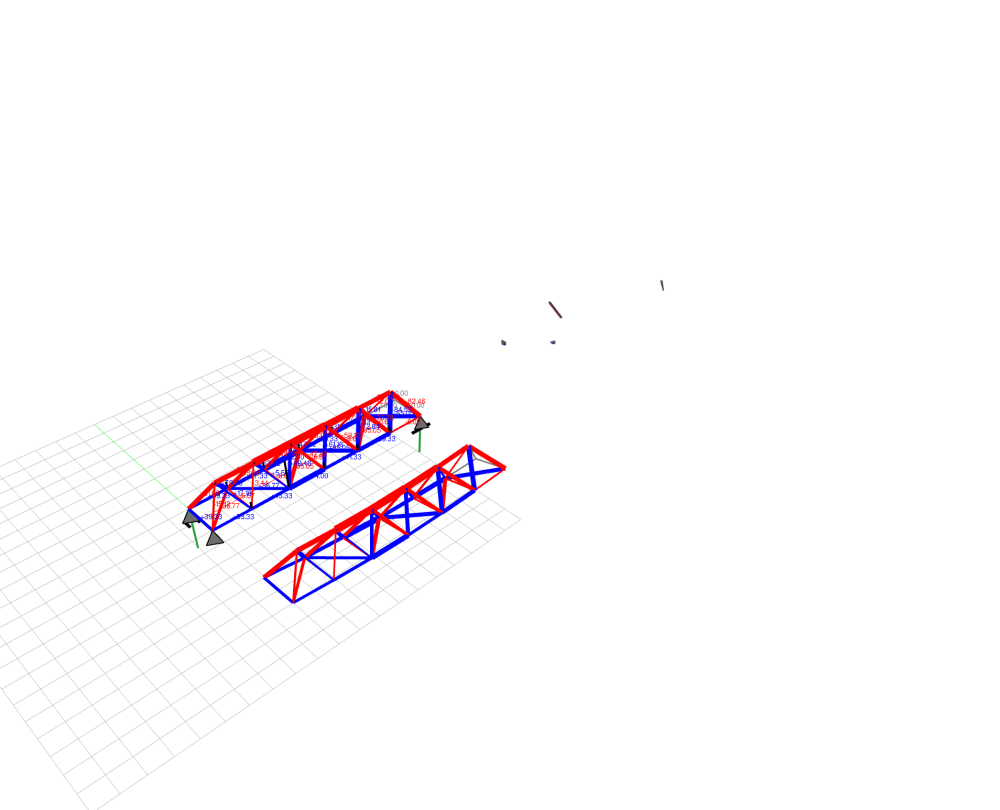
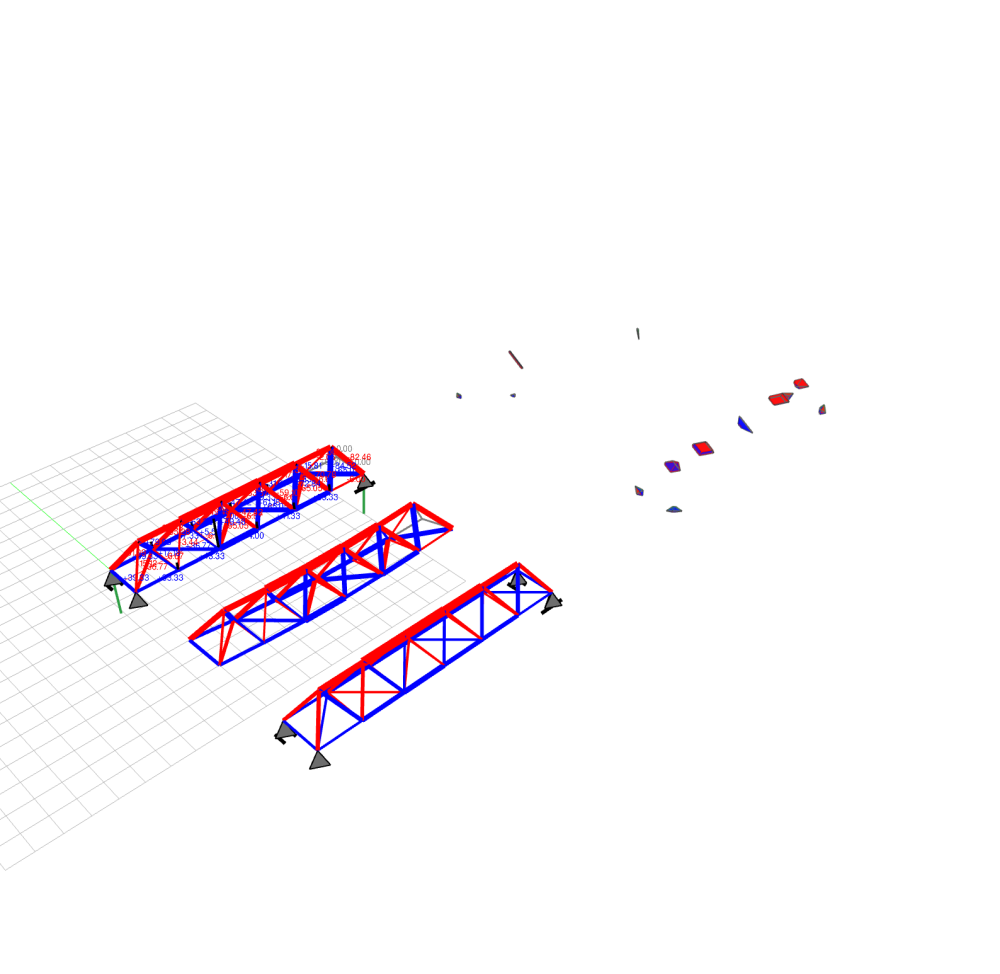
Pick the state of the indeterminate Warren truss in the input or with a slider

diff --git a/examples/model/05_warren_truss_fem.py b/examples/model/05_warren_truss_fem.py
@@ -1,4 +1,4 @@
-"""A 3D Warren truss solved twice: with 3GS (`GSModel`, statics) and with a linear finite element model.
+"""A 3D Warren truss solved with 3GS (`GSModel`, statics) and with a linear finite element model.
 
 The truss has a triangular section: two bottom chords, one top chord, Warren diagonals from each
 top node to the four bottom nodes of its bay, cross ties and lateral bracing in the bottom plane.
@@ -10,12 +10,18 @@ A. On three bearings (pinned, roller, slider) the truss is statically determinat
    so the finite element model must give the same forces for any member stiffness. It also gives
    what statics cannot: the displacements. 3GS also gives what the finite element model does not:
    the force polyhedron of every node, here kept only where it reaches the forces (`check`).
-B. With a fourth bearing the truss is statically indeterminate (degree 1). 3GS says so and gives
-   no forces; the finite element model does, and they change with the member stiffness: here with
-   a ten times softer bracing in the first half of the span. (Scaling a whole member group, or any
-   change under loads symmetric about the middle of the span, would change nothing here: the one
-   self-stress state of this truss twists it, with the bearing reactions alternating around the
-   corners.)
+B. With a fourth bearing the truss is statically indeterminate, with one self-stress state: every
+   state in equilibrium with the loads is one of them plus any multiple of it, a line of states.
+   - The member stiffness picks one point on that line, the elastic state. 3GS gives it from
+     statics and stiffness (the least complementary energy), and it is the finite element state.
+     Here the bracing of the first half of the span is `SOFT_BRACING` times softer.
+   - Any other point is a state in equilibrium too: pick it in the input with `FOURTH_BEARING`, the
+     vertical reaction at the fourth bearing, or move the slider in the viewer. The script prints
+     the range in which no bearing lifts off, and builds the force polyhedra of the chosen state.
+     At 0 kN the fourth bearing carries nothing, and the state is that of A.
+   (Scaling a whole member group, or any change under loads symmetric about the middle of the span,
+   would not move the elastic state here: the self-stress state twists the truss, with the bearing
+   reactions alternating around the corners.)
 
 The finite element model is the direct stiffness method for pin-jointed bars: each member adds
 EA/L * d d^T to the stiffness matrix (d its unit direction), the free degrees of freedom are solved
@@ -26,6 +32,7 @@ Run with the compas-3gs env:  python examples/model/05_warren_truss_fem.py
 """
 
 import numpy as np
+from compas_viewer.components import Slider
 
 from compas.colors import Color
 from compas.geometry import Line
@@ -40,6 +47,9 @@ DECK = [0.0, 0.0, -10.0]  # kN per bottom node
 WIND = [0.0, 2.0, 0.0]  # kN per top node
 VEHICLE = [0.0, 0.0, -30.0]  # kN on one side of the deck, off the middle of the span
 EA = 210e6 * 0.002  # kN: steel, 20 cm2
+
+SOFT_BRACING = 10.0  # B: the bracing of the first half of the span is this many times softer (sets the elastic state)
+FOURTH_BEARING = None  # B: the vertical reaction you pick at the fourth bearing, in kN; None for the elastic state
 
 # ------------------------------------------------------------------------------
 # 1. geometry
@@ -58,7 +68,7 @@ groups = {
 }
 
 # ------------------------------------------------------------------------------
-# 2. 3GS: supports, loads, equilibrium, force polyhedra
+# 2. A. 3GS on three bearings: supports, loads, equilibrium, force polyhedra
 # ------------------------------------------------------------------------------
 
 model = GSModel.from_lines([line for lines in groups.values() for line in lines])
@@ -87,7 +97,7 @@ for node, check in model.check().items():
 print("force polyhedra: {} nodes, {} without".format(len(model.cells), len(model.skipped)))
 
 # ------------------------------------------------------------------------------
-# 3. linear finite elements, for the same supports and loads
+# 3. linear finite elements: A with uniform stiffness, B with the softer bracing
 # ------------------------------------------------------------------------------
 
 nodes = list(form.nodes())
@@ -96,7 +106,7 @@ xyz = np.array([form.node_coordinates(node) for node in nodes])
 soft = [(model.node_at(a), model.node_at(b)) for a, b in groups["bracing"][: BAYS // 2]]  # the bracing of the first half of the span
 stiffness = {
     "uniform": {edge: EA for edge in form.edges()},
-    "soft bracing": {edge: EA / 10 if edge in soft or edge[::-1] in soft else EA for edge in form.edges()},
+    "soft bracing": {edge: EA / SOFT_BRACING if edge in soft or edge[::-1] in soft else EA for edge in form.edges()},
 }
 
 K = {}
@@ -129,7 +139,7 @@ for u, v in form.edges():
     fem[(u, v)] = EA / length * float(np.dot(d / length, displacements[3 * j : 3 * j + 3] - displacements[3 * i : 3 * i + 3]))
 
 # ------------------------------------------------------------------------------
-# 4. comparison
+# 4. A. comparison
 # ------------------------------------------------------------------------------
 
 print("\nmember forces (kN, + tension / - compression)   largest |N|    3GS - FEM")
@@ -153,38 +163,62 @@ for node, reason in model.skipped.items():
     print("no force polyhedron at node {}: {}".format(node, reason))
 
 # ------------------------------------------------------------------------------
-# 5. a fourth bearing: statically indeterminate
+# 5. B. a fourth bearing: a line of states in equilibrium, the elastic one, and the one you pick
 # ------------------------------------------------------------------------------
 
-indeterminate = GSModel.from_lines([line for lines in groups.values() for line in lines])
-for node in form.nodes():
-    indeterminate.form.node_attributes(node, ["support", "px", "py", "pz"], form.node_attributes(node, ["support", "px", "py", "pz"]))
-indeterminate.set_support(node=indeterminate.node_at(right[-1]), dofs="roller")
-try:
-    indeterminate.solve()
-except ValueError as error:
-    print("\nB. four bearings, 3GS: {}".format(error))
+indeterminate = GSModel(form.copy())  # the same members and loads
+corner = model.node_at(right[-1])
+indeterminate.set_support(node=corner, dofs="roller")
+bearings = list(indeterminate.form.supports())
 
-fixed = [3 * index[node] + "xyz".index(axis) for node in indeterminate.form.supports() for axis in indeterminate.form.node_attribute(node, "support")]
+elastic = indeterminate.solve(stiffness=stiffness["soft bracing"])
+elastic_forces = indeterminate.forces()
+elastic_reactions = indeterminate.reactions()
+print("\nB. four bearings: determinate {}, {} self-stress state".format(elastic.determinate, len(indeterminate.self_stresses)))
+state_forces, state_reactions = indeterminate.self_stresses[0]
+print("   self-stress state, vertical reactions: {}".format(", ".join("node {} {:+.3f}".format(node, state_reactions[node][2]) for node in bearings)))
+
+fixed = [3 * index[node] + "xyz".index(axis) for node in bearings for axis in indeterminate.form.node_attribute(node, "support")]
 free = [dof for dof in range(3 * len(nodes)) if dof not in fixed]
-forces = {}
-for case, ea in stiffness.items():
-    u_case = np.zeros(3 * len(nodes))
-    u_case[free] = np.linalg.solve(K[case][np.ix_(free, free)], p[free])
-    forces[case] = {}
-    for u, v in form.edges():
-        i, j = index[u], index[v]
-        d = xyz[j] - xyz[i]
-        length = np.linalg.norm(d)
-        forces[case][(u, v)] = ea[(u, v)] / length * float(np.dot(d / length, u_case[3 * j : 3 * j + 3] - u_case[3 * i : 3 * i + 3]))
-    vertical = {node: (K[case] @ u_case - p)[3 * index[node] + 2] for node in indeterminate.form.supports()}
-    print("   FEM, {:12s}: vertical reactions {} kN".format(case, ", ".join("node {} {:+.3f}".format(node, r) for node, r in vertical.items())))
-change = max(form.edges(), key=lambda edge: abs(forces["uniform"][edge] - forces["soft bracing"][edge]))
-before, after = forces["uniform"][change], forces["soft bracing"][change]
-print("   with the bracing of the first half ten times softer, member {} goes from {:+.3f} to {:+.3f} kN".format(change, before, after))
+u_b = np.zeros(3 * len(nodes))
+u_b[free] = np.linalg.solve(K["soft bracing"][np.ix_(free, free)], p[free])
+difference = 0.0
+for u, v in form.edges():
+    i, j = index[u], index[v]
+    d = xyz[j] - xyz[i]
+    length = np.linalg.norm(d)
+    force = stiffness["soft bracing"][(u, v)] / length * float(np.dot(d / length, u_b[3 * j : 3 * j + 3] - u_b[3 * i : 3 * i + 3]))
+    difference = max(difference, abs(force - elastic_forces[(u, v)]))
+print("   elastic state, bracing of the first half {:.0f} times softer: 3GS - FEM {:.1e} kN".format(SOFT_BRACING, difference))
+print("   elastic state, vertical reactions: {}".format(", ".join("node {} {:+.3f}".format(node, elastic_reactions[node][2]) for node in bearings)))
+
+# the states along the line: reaction(t) = elastic + t * self-stress; no bearing lifts off while every vertical reaction is >= 0
+low, high = -np.inf, np.inf
+for node in bearings:
+    if state_reactions[node][2] > 0:
+        low = max(low, -elastic_reactions[node][2] / state_reactions[node][2])
+    elif state_reactions[node][2] < 0:
+        high = min(high, -elastic_reactions[node][2] / state_reactions[node][2])
+ends = sorted(elastic_reactions[corner][2] + t * state_reactions[corner][2] for t in (low, high))
+print("   no bearing lifts off for a fourth bearing reaction from {:.2f} to {:.2f} kN".format(*ends))
+
+if FOURTH_BEARING is not None:
+    indeterminate.solve(stiffness=stiffness["soft bracing"], reactions={(corner, "z"): FOURTH_BEARING})
+chosen = indeterminate.forces()
+change = max(form.edges(), key=lambda edge: abs(chosen[edge] - elastic_forces[edge]))
+print("   chosen state, vertical reactions: {}".format(", ".join("node {} {:+.3f}".format(node, round(indeterminate.form.node_reaction(node)[2], 9) + 0.0) for node in bearings)))
+print("   largest change from the elastic state: member {} {:+.3f} -> {:+.3f} kN".format(change, elastic_forces[change], chosen[change]))
+
+indeterminate.derive_force_diagram(kmax=500)
+for node, check in indeterminate.check().items():
+    if check["area_error"] > 0.01 or check["angle"] > 1.0:
+        indeterminate.skipped[node] = "the cell does not reach the forces"
+        del indeterminate.cells[node]
+        del indeterminate.cell_faces[node]
+print("   force polyhedra of the chosen state: {} nodes, {} without".format(len(indeterminate.cells), len(indeterminate.skipped)))
 
 # ------------------------------------------------------------------------------
-# 6. viewer: 3GS forces and force polyhedra; beside them, the FEM deflected shape and forces
+# 6. viewer: A with 3GS and FEM; B in the chosen state, with a slider for the fourth bearing
 # ------------------------------------------------------------------------------
 
 viewer = GSViewer()
@@ -193,11 +227,37 @@ viewer.add_model(model)
 scale = 0.05 * BAYS * BAY / np.abs(displacements).max()  # the largest displacement drawn as 5% of the span
 shift = np.array([0.0, -3 * WIDTH, 0.0])
 peak = max(abs(force) for force in fem.values())
-deflected = viewer.scene.add_group(name="FEM: deflected shape (x{:.0f}) and member forces".format(scale))
+deflected = viewer.scene.add_group(name="A, FEM: deflected shape (x{:.0f}) and member forces".format(scale))
 for u, v in form.edges():
     a = xyz[index[u]] + scale * displacements[3 * index[u] : 3 * index[u] + 3] + shift
     b = xyz[index[v]] + scale * displacements[3 * index[v] : 3 * index[v] + 3] + shift
     color = Color.grey() if abs(fem[(u, v)]) < 1e-9 else Color.blue() if fem[(u, v)] > 0 else Color.red()
     viewer.scene.add(Line(a, b), parent=deflected, linecolor=color, linewidth=1.5 + 6 * abs(fem[(u, v)]) / peak)
+
+shift = np.array([0.0, -6 * WIDTH, 0.0])
+group = viewer.scene.add_group(name="B, four bearings: the chosen state")
+members = {}
+for u, v in form.edges():
+    force = chosen[(u, v)]
+    color = Color.grey() if abs(force) < 1e-9 else Color.blue() if force > 0 else Color.red()
+    members[(u, v)] = viewer.scene.add(Line(xyz[index[u]] + shift, xyz[index[v]] + shift), parent=group, linecolor=color, linewidth=1.5 + 6 * abs(force) / peak)
+for node in bearings:
+    viewer.add_support(xyz[index[node]] + shift, indeterminate.form.node_attribute(node, "support"), 0.05 * np.linalg.norm(xyz.max(axis=0) - xyz.min(axis=0)), parent=group)
+viewer.add_cells(indeterminate, offset=[1.5 * BAYS * BAY + 2.0, -6 * WIDTH, 0.0])
+
+
+def pick(slider, value):
+    indeterminate.solve(stiffness=stiffness["soft bracing"], reactions={(corner, "z"): value})
+    for edge, line in members.items():
+        force = indeterminate.form.edge_force(edge)
+        line.linecolor = Color.grey() if abs(force) < 1e-9 else Color.blue() if force > 0 else Color.red()
+        line.linewidth = 1.5 + 6 * abs(force) / peak
+        line.update(update_data=True)
+    viewer.renderer.update()
+
+
+viewer.ui.sidedock.show = True
+start = round(elastic_reactions[corner][2] if FOURTH_BEARING is None else FOURTH_BEARING, 1)
+viewer.ui.sidedock.add(Slider(title="Bearing 4 (kN)", value=start, min_val=round(ends[0], 1), max_val=round(ends[1], 1), step=0.1, action=pick))
 
 viewer.show()

diff --git a/CHANGELOG.md b/CHANGELOG.md
@@ -19,7 +19,7 @@ and this project adheres to [Semantic Versioning](https://semver.org/spec/v2.0.0
 * Added `compas_3gs.algorithms.cell_from_forces`: the force polyhedron of a node from the forces on it.
 * Added `compas_3gs.model.GSModel`: a form diagram with supports and forces, its equilibrium (`solve`, with optional member stiffness and prescribed forces and reactions, and `self_stresses`) and the force polyhedron of every node (`derive_force_diagram`), built from member lines (`from_lines`) or from a polyhedral force diagram (`from_force_diagram`).
 * Added `compas_3gs.viewer.GSViewer`, a compas_viewer `Viewer` that draws a `GSModel` in groups: members in compression and tension with their forces, support glyphs, loads, reactions and the force diagram. The module needs compas_viewer.
-* Added examples of `GSModel` and `GSViewer` in `examples/model/`, including a 3D Warren truss solved with 3GS and with linear finite elements (`05_warren_truss_fem.py`).
+* Added examples of `GSModel` and `GSViewer` in `examples/model/`, including a 3D Warren truss solved with 3GS and with linear finite elements, on three bearings and, statically indeterminate, on four, where the state in equilibrium is picked in the input or with a slider (`05_warren_truss_fem.py`).
 * Added an Examples section to the documentation: the API in brief, and one page per example with its screenshot and code.
 * Added tests for every module in `tests/compas_3gs/`, mirroring `src/`, with JSON round trips of the data structures, and `tests/test_examples.py`, which runs every example (marked `gui`).
 

diff --git a/docs/gallery/index.md b/docs/gallery/index.md
@@ -36,8 +36,8 @@ A form diagram from lines, supports and forces, solved with `GSModel` and drawn 
 - [A tripod with `GSModel`: member lines, supports and a load, solve, force polyhedra, view](model_01_tripod.md)
 - [A tetrahelix tower on a pinned, a slider and a roller support, with `GSModel`](model_02_space_truss.md)
 - [Force first with `GSModel`: a polyhedral force diagram gives the frame and its forces](model_03_force_first.md)
-- [What `GSModel.solve` says when statics alone cannot give the forces](model_04_determinacy.md)
-- [A 3D Warren truss solved twice: with 3GS (`GSModel`, statics) and with a linear finite element model](model_05_warren_truss_fem.md)
+- [What `GSModel.solve` does when statics alone has many solutions, or none](model_04_determinacy.md)
+- [A 3D Warren truss solved with 3GS (`GSModel`, statics) and with a linear finite element model](model_05_warren_truss_fem.md)
 
 ## Physical structures
 

diff --git a/docs/gallery/model_05_warren_truss_fem.md b/docs/gallery/model_05_warren_truss_fem.md
@@ -1,4 +1,4 @@
-# A 3D Warren truss solved twice: with 3GS (`GSModel`, statics) and with a linear finite element model
+# A 3D Warren truss solved with 3GS (`GSModel`, statics) and with a linear finite element model
 
 ![](../assets/images/examples/model_05_warren_truss_fem.png)
 
